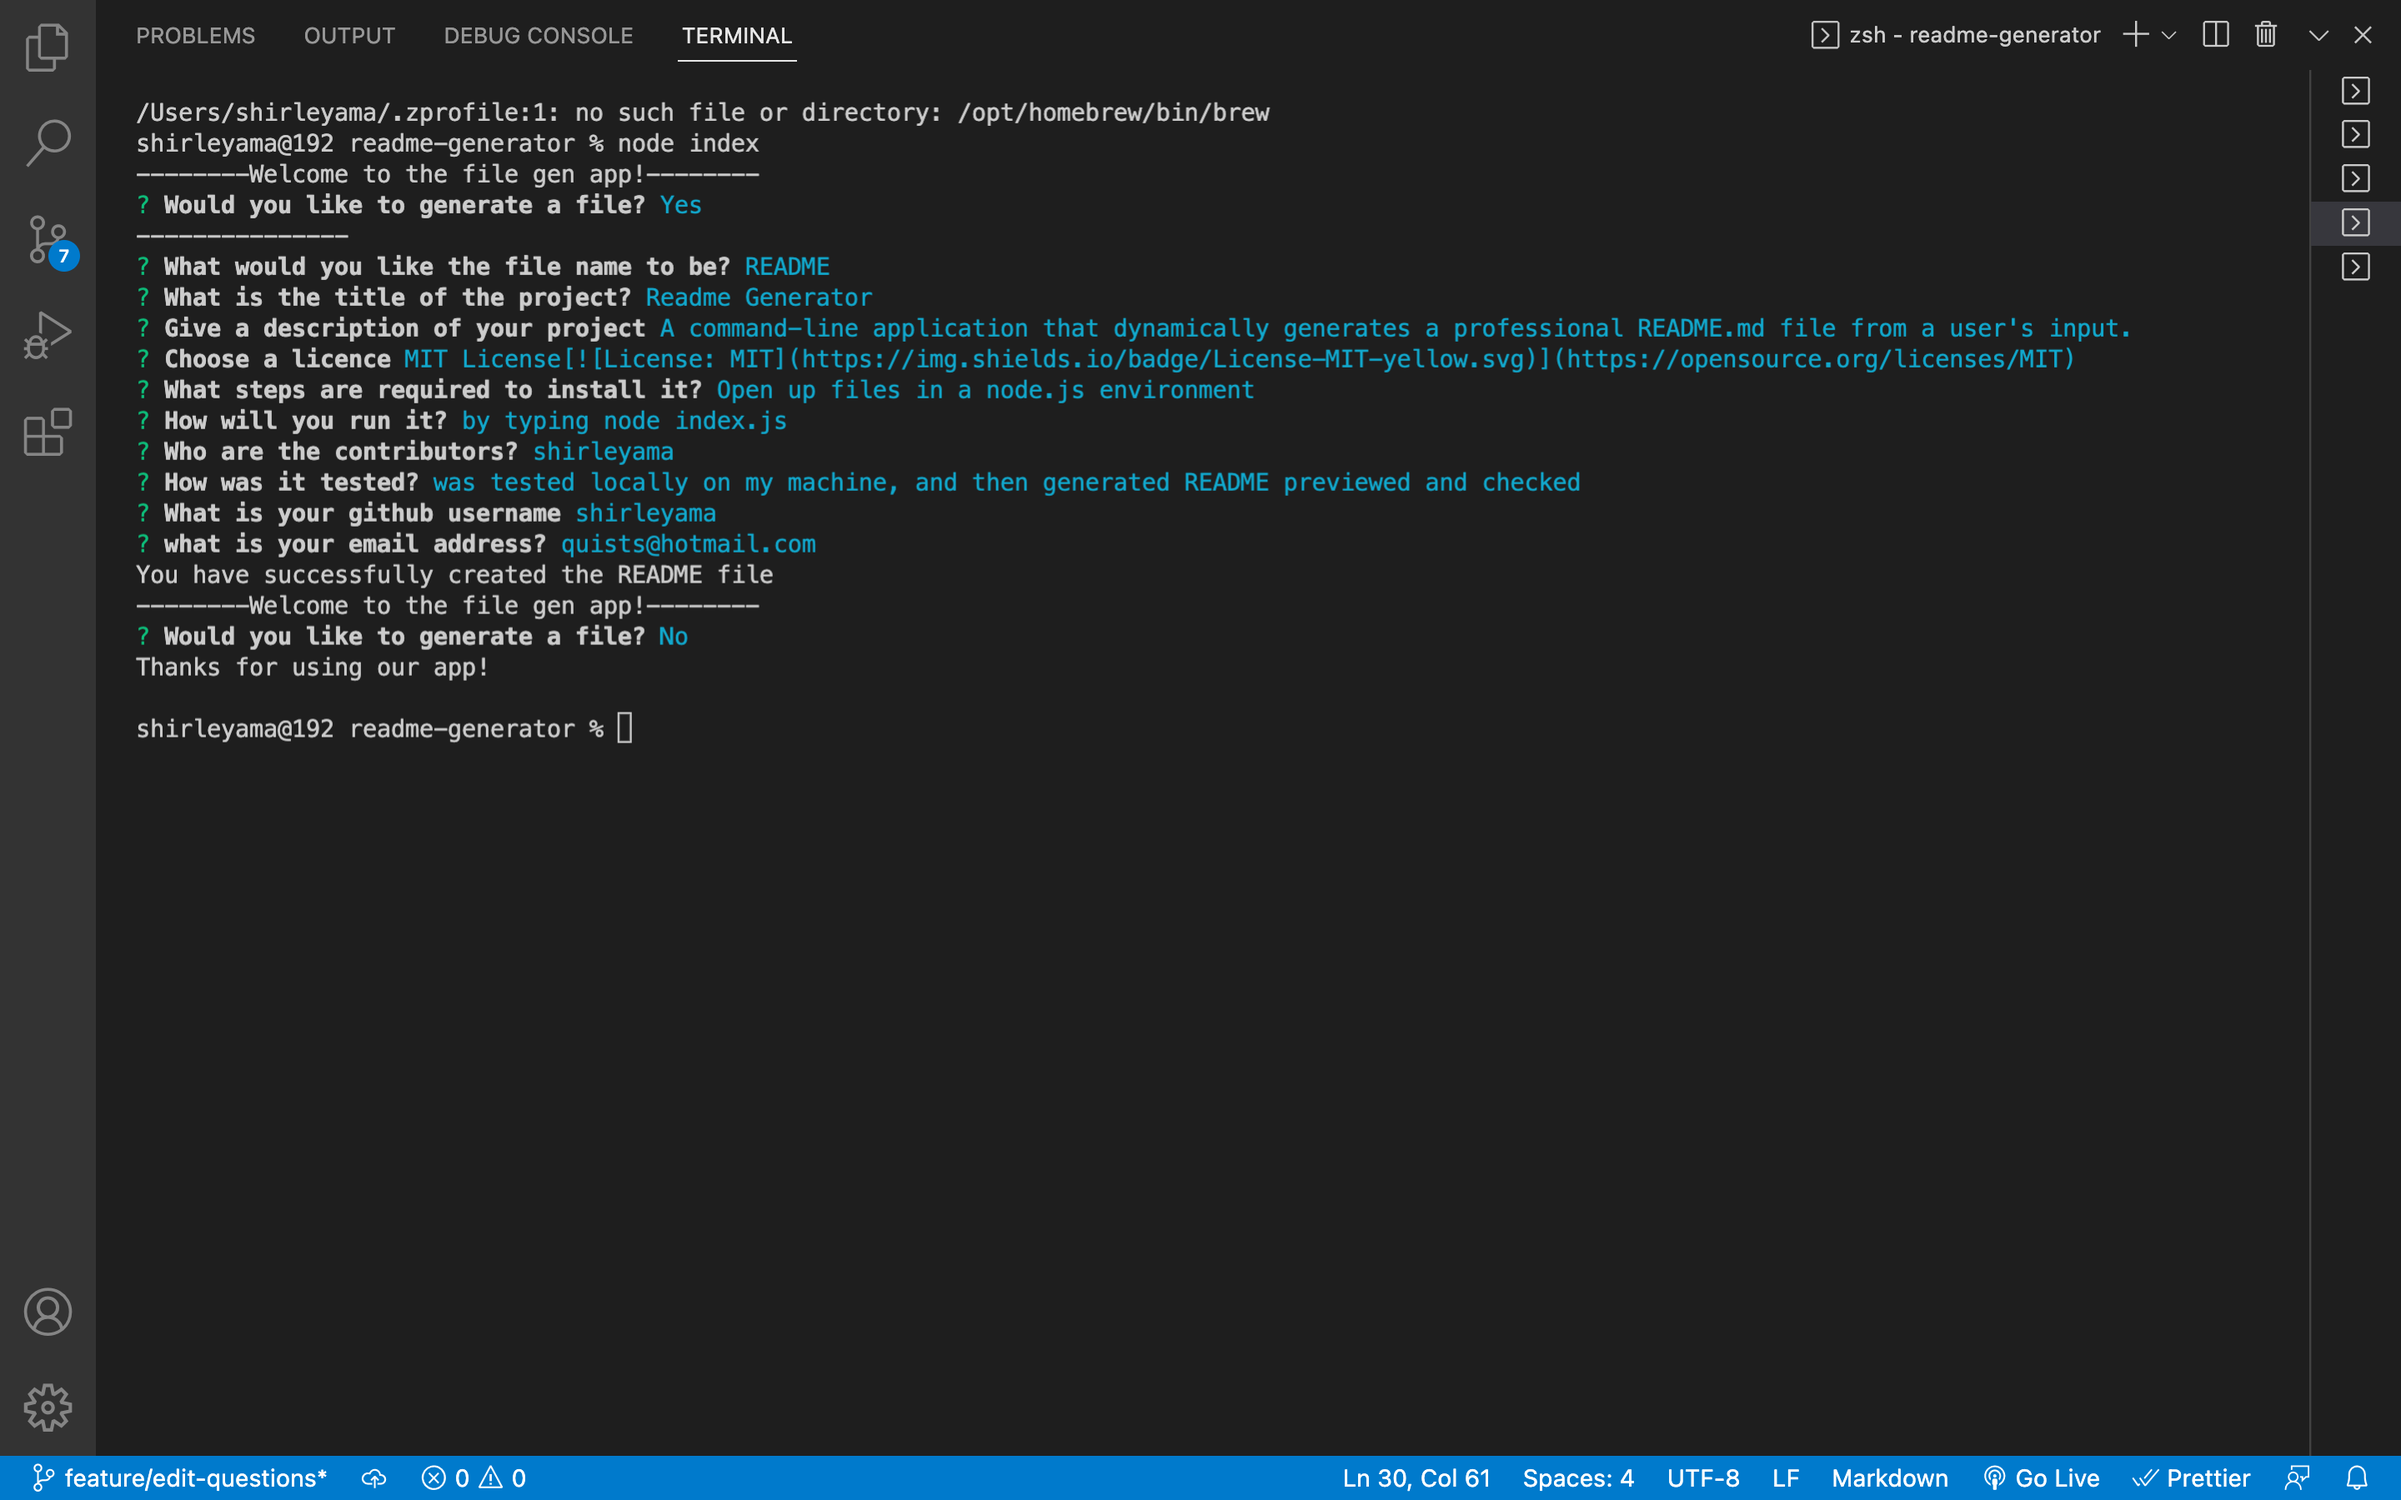
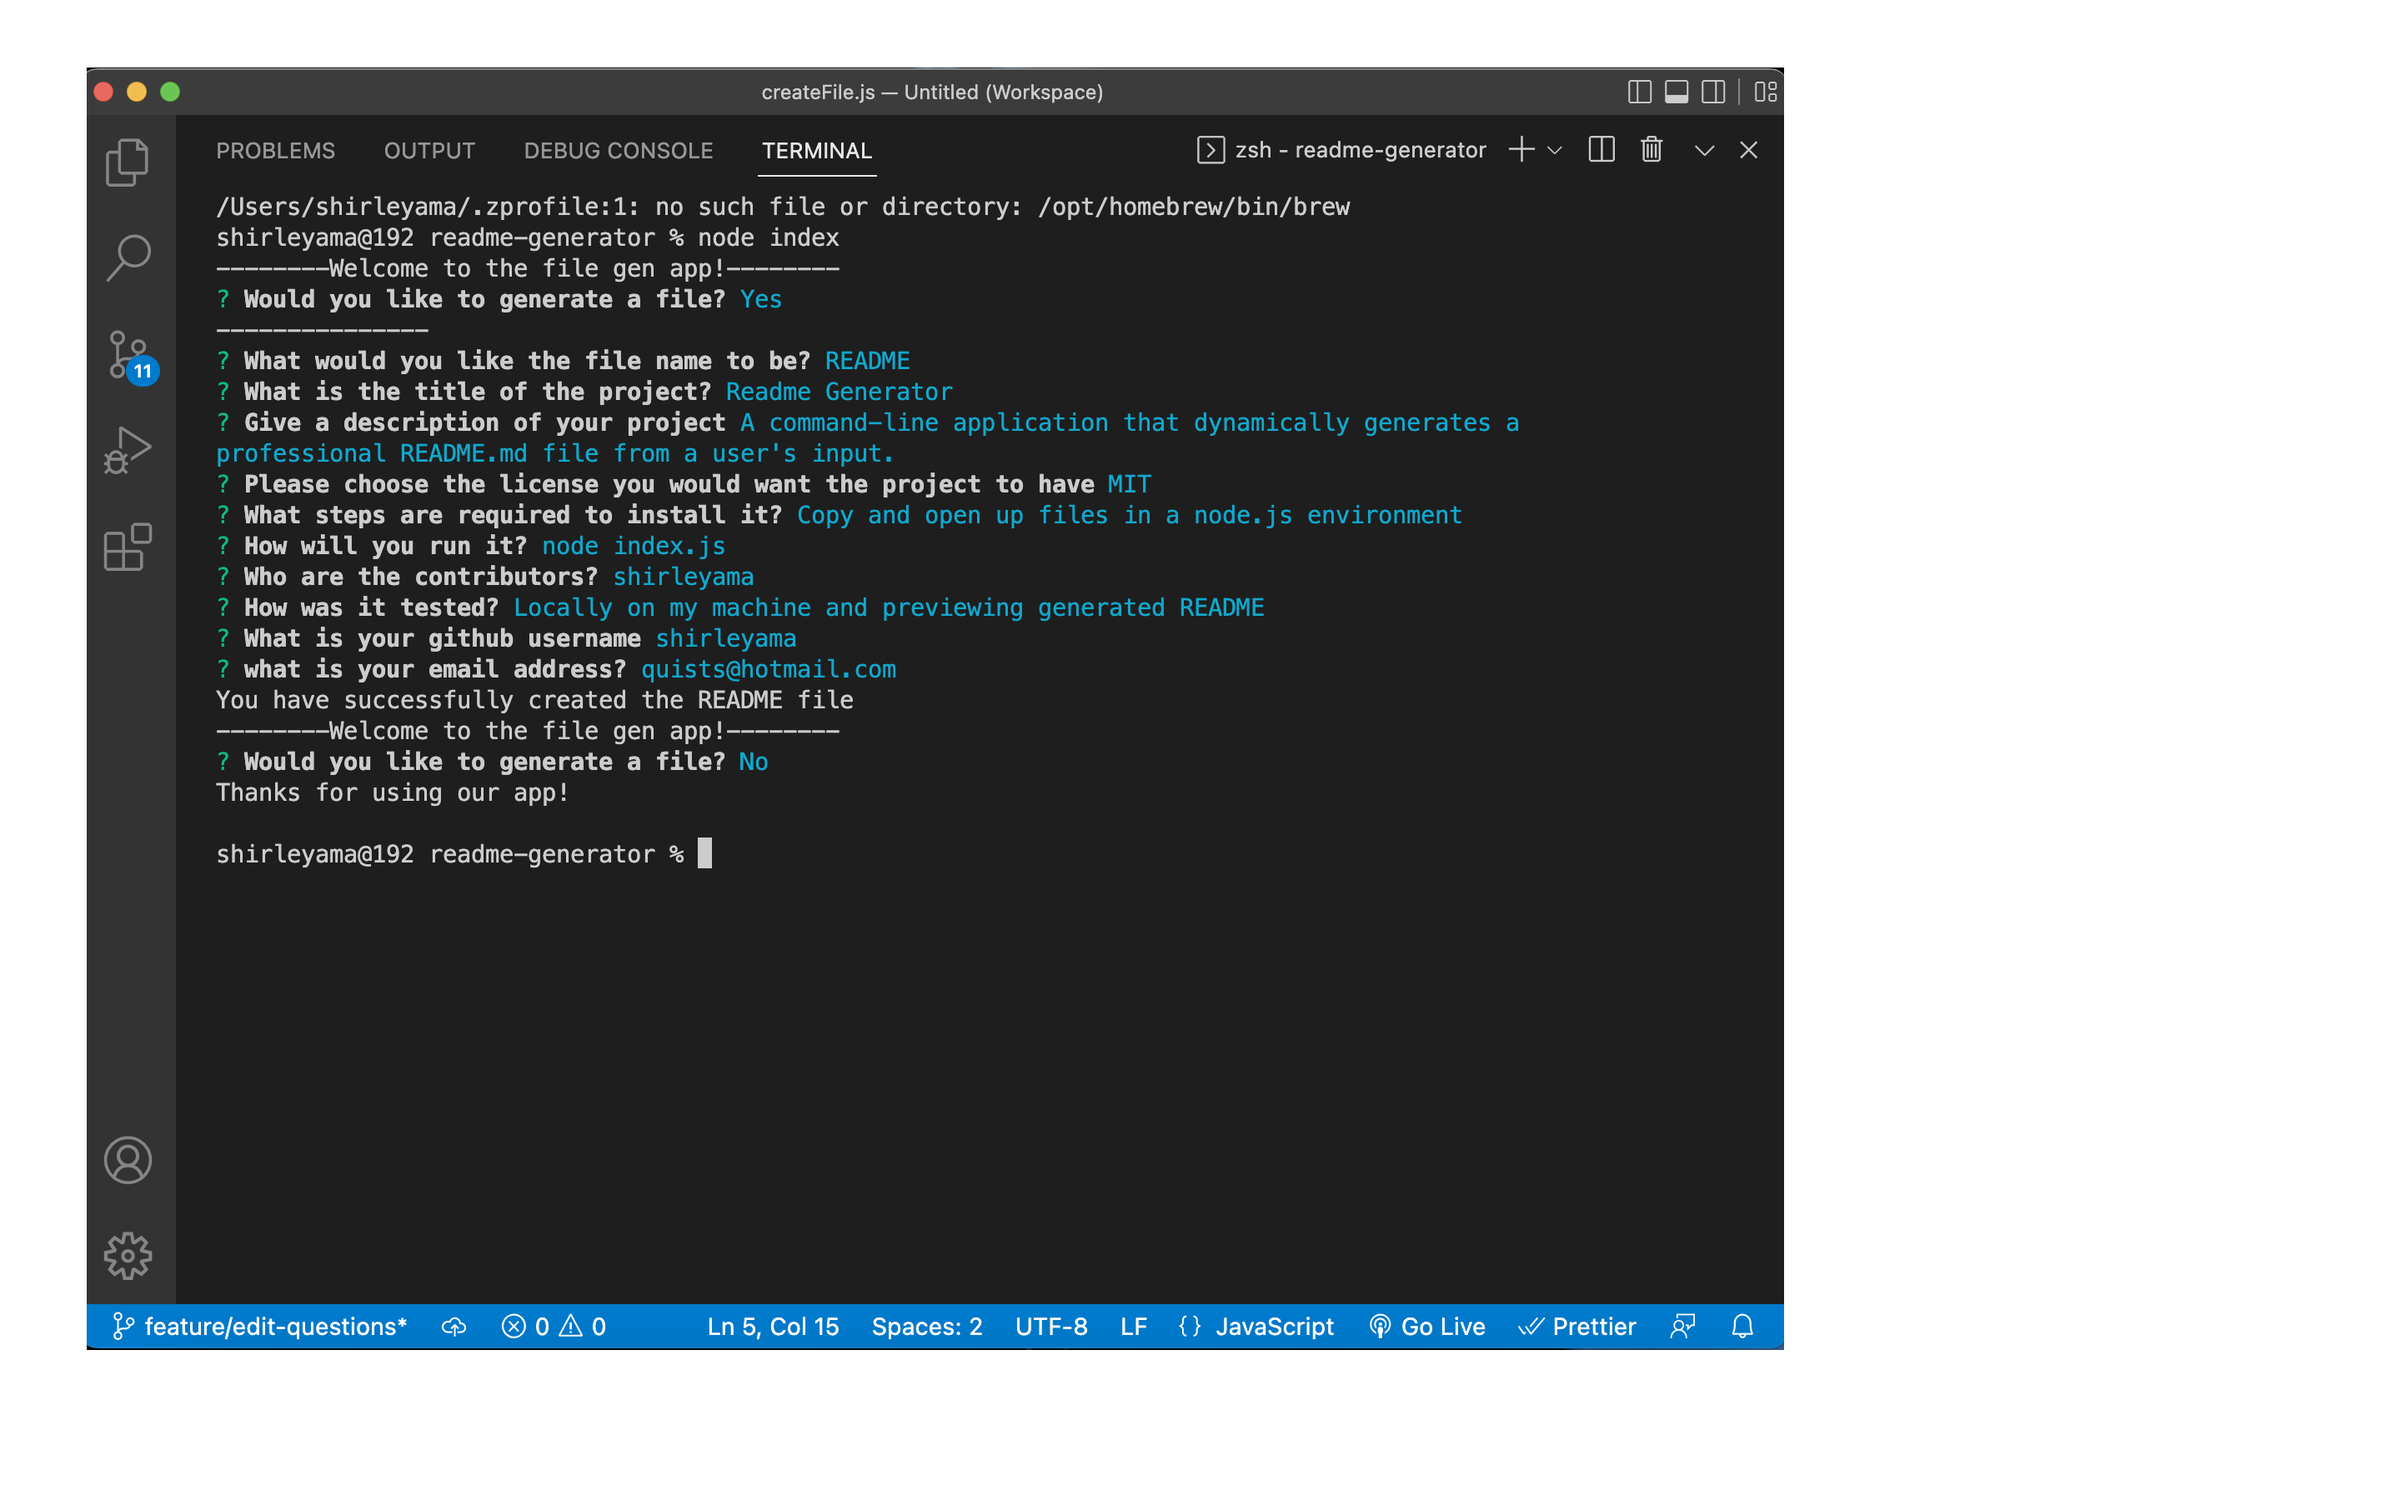
corrected licence display error

diff --git a/lib/promptUser.js b/lib/promptUser.js
@@ -43,64 +43,71 @@ function promptUser() {
         message: "Give a description of your project",
       },
       {
-        type: "checkbox",
-        message: "Choose a licence",
+        type: "list",
         name: "license",
-        choices: [
-          new inquirer.Separator(" = The Licenses = "),
-          {
-            name: "GNU General Public License v3.0 [![License: GPL v3](https://img.shields.io/badge/License-GPLv3-blue.svg)](https://www.gnu.org/licenses/gpl-3.0)",
-          },
-          {
-            name: "MIT License[![License: MIT](https://img.shields.io/badge/License-MIT-yellow.svg)](https://opensource.org/licenses/MIT)",
-          },
-          {
-            name: 'BSD 2-Clause "Simplified" License [![License](https://img.shields.io/badge/License-BSD_2--Clause-orange.svg)](https://opensource.org/licenses/BSD-2-Clause)',
-          },
-          {
-            name: 'BSD 3-Clause "New" or "Revised [![License](https://img.shields.io/badge/License-BSD_3--Clause-blue.svg)](https://opensource.org/licenses/BSD-3-Clause)" License',
-          },
-
-          {
-            name: "Boost Software License 1.0 [![License](https://img.shields.io/badge/License-Boost_1.0-lightblue.svg)](https://www.boost.org/LICENSE_1_0.txt)",
-          },
-          {
-            name: "Creative Commons Zero v1.0 Universal [![License: CC0-1.0](https://licensebuttons.net/l/zero/1.0/80x15.png)](http://creativecommons.org/publicdomain/zero/1.0/)",
-          },
-
-          {
-            name: "Eclipse Public License 2.0[![License](https://img.shields.io/badge/License-EPL_1.0-red.svg)](https://opensource.org/licenses/EPL-1.0)",
-          },
-          {
-            name: "GNU Affero General Public License v3.0 [![License: AGPL v3](https://img.shields.io/badge/License-AGPL_v3-blue.svg)](https://www.gnu.org/licenses/agpl-3.0)",
-          },
-          {
-            name: "GNU Lesser General Public License v2.1 [![License: LGPL v3](https://img.shields.io/badge/License-LGPL_v3-blue.svg)](https://www.gnu.org/licenses/lgpl-3.0)",
-          },
-          {
-            name: "The Unlicense [![License: Unlicense](https://img.shields.io/badge/license-Unlicense-blue.svg)](http://unlicense.org/)",
-          },
-        ],
-        validate(answer) {
-          if (answer.length < 1) {
-            return "You must choose at least one license.";
-          }
-
-          return true;
-        },
+        message: "Please choose the license you would want the project to have",
+        choices: ["MIT", "APACHE2.0", "Boost1.0", "GPL3.0", "None"],
       },
 
+      // {
+      //   type: "checkbox",
+      //   message: "Choose a licence",
+      //   name: "license",
+      //   choices: [
+      //     new inquirer.Separator(" = The Licenses = "),
+      //     {
+      //       name: "GNU General Public License v3.0 [![License: GPL v3](https://img.shields.io/badge/License-GPLv3-blue.svg)](https://www.gnu.org/licenses/gpl-3.0)",
+      //     },
+      //     {
+      //       name: "MIT License[![License: MIT](https://img.shields.io/badge/License-MIT-yellow.svg)](https://opensource.org/licenses/MIT)",
+      //     },
+      //     {
+      //       name: 'BSD 2-Clause "Simplified" License [![License](https://img.shields.io/badge/License-BSD_2--Clause-orange.svg)](https://opensource.org/licenses/BSD-2-Clause)',
+      //     },
+      //     {
+      //       name: 'BSD 3-Clause "New" or "Revised [![License](https://img.shields.io/badge/License-BSD_3--Clause-blue.svg)](https://opensource.org/licenses/BSD-3-Clause)" License',
+      //     },
+
+      //     {
+      //       name: "Boost Software License 1.0 [![License](https://img.shields.io/badge/License-Boost_1.0-lightblue.svg)](https://www.boost.org/LICENSE_1_0.txt)",
+      //     },
+      //     {
+      //       name: "Creative Commons Zero v1.0 Universal [![License: CC0-1.0](https://licensebuttons.net/l/zero/1.0/80x15.png)](http://creativecommons.org/publicdomain/zero/1.0/)",
+      //     },
+
+      //     {
+      //       name: "Eclipse Public License 2.0[![License](https://img.shields.io/badge/License-EPL_1.0-red.svg)](https://opensource.org/licenses/EPL-1.0)",
+      //     },
+      //     {
+      //       name: "GNU Affero General Public License v3.0 [![License: AGPL v3](https://img.shields.io/badge/License-AGPL_v3-blue.svg)](https://www.gnu.org/licenses/agpl-3.0)",
+      //     },
+      //     {
+      //       name: "GNU Lesser General Public License v2.1 [![License: LGPL v3](https://img.shields.io/badge/License-LGPL_v3-blue.svg)](https://www.gnu.org/licenses/lgpl-3.0)",
+      //     },
+      //     {
+      //       name: "The Unlicense [![License: Unlicense](https://img.shields.io/badge/license-Unlicense-blue.svg)](http://unlicense.org/)",
+      //     },
+      //   ],
+      //   validate(answer) {
+      //     if (answer.length < 1) {
+      //       return "You must choose at least one license.";
+      //     }
+
+      //     return true;
+      //   }
+      // ,
+      // }
       {
         type: "input",
         name: "installation",
         message: "What steps are required to install it?",
       },
       { type: "input", name: "usage", message: "How will you run it?" },
-      {
-        type: "input",
-        name: "license",
-        message: "Choose a license from the following",
-      },
+      // {
+      //   type: "input",
+      //   name: "license",
+      //   message: "Choose a license from the following",
+      // },
       {
         type: "input",
         name: "contributing",

diff --git a/lib/createFile.js b/lib/createFile.js
@@ -1,19 +1,24 @@
 const fs = require("fs").promises;
 
-// function createFile(data) {
-//   return fs.writeFile(data.file_name + ".md", data.content).then(() => {
-//     console.log(`You have successfully created the ${data.file_name} file`);
-//     console.log(`The contents of the file are:\n${data.content}`);
-//   });
-// }
-// const answers = `Title: ${data.title}\nDescription: ${data.description}\nInstallation:${data.description}`;
+function displayBadge(license) {
+  if (license === "None") {
+    return "";
+  } else {
+    return (
+      "![License](https://img.shields.io/badge/license-" +
+      license +
+      "-blue.svg)" // common color used for open-source projects is blue
+    );
+  }
+}
 
 function createFile(data) {
   return fs
+
     .writeFile(
       data.file_name + ".md",
       `# ${data.title}
-${data.license}
+${displayBadge(data.license)}
 ## Description	   
 ${data.description}
 	  
@@ -33,7 +38,7 @@ ${data.installation}
 ${data.usage}
 
 ## License
-${data.license}
+Licensed under the ${data.license} license.
 	  
 ## Contributing
 ${data.contributing}
@@ -46,6 +51,7 @@ If you have any questions, please feel free to reach out to me via:
 	
 - [${data.username}](https://github.com/${data.username})
 - [${data.email}](mailto:${data.email})
+
 `
     )
     .then(() => {
